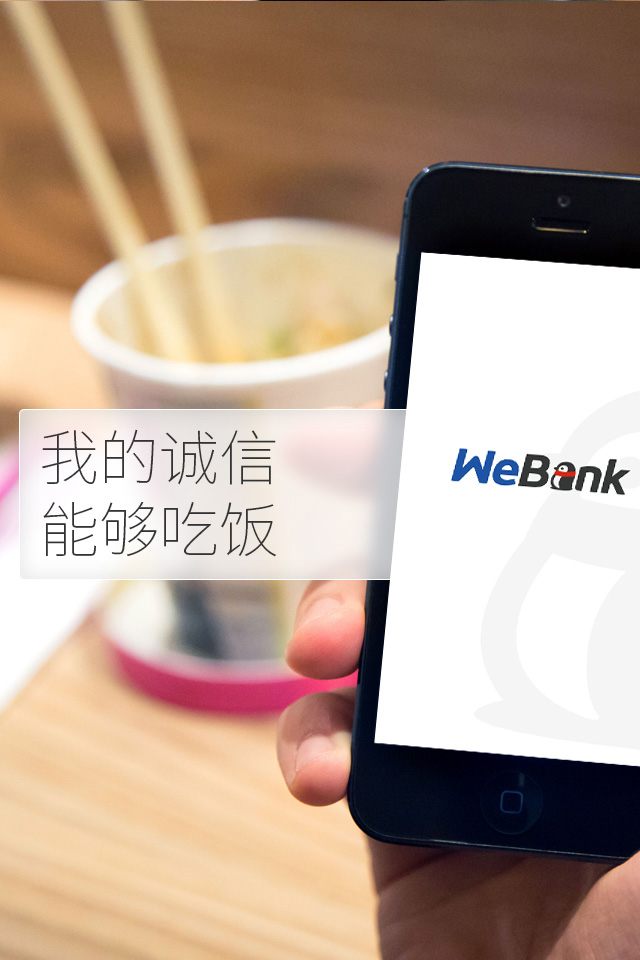
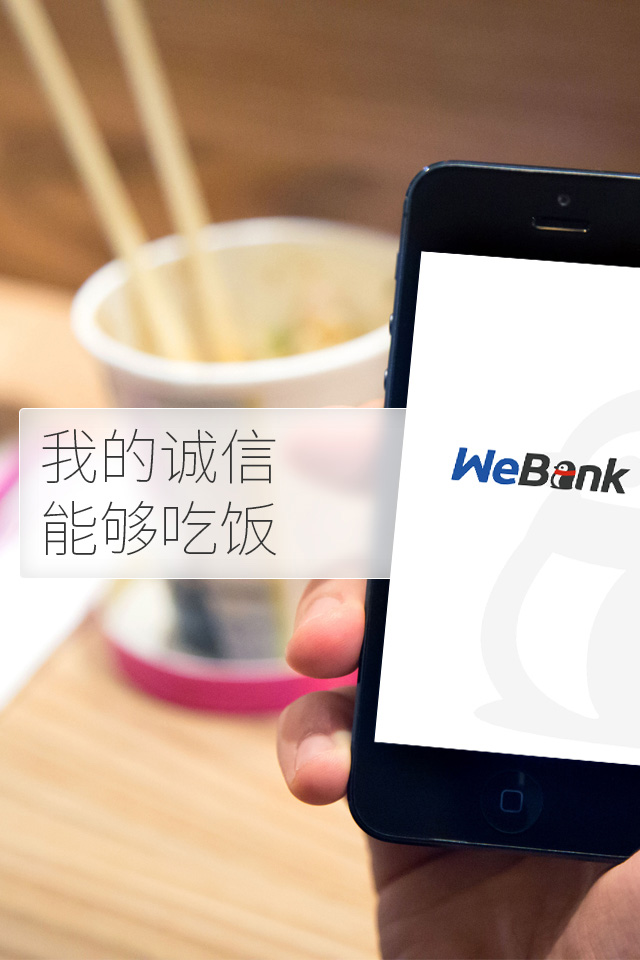
[!]

diff --git a/demo/webank/css/style.css b/demo/webank/css/style.css
@@ -108,19 +108,20 @@ body{ background:#1f54a4;}
 .con_wrap_7{ background:#1f54a4 url(../data/con_bg_7.jpg) no-repeat center center; background-size: contain;}
 .con_wrap_8{ background:#1f54a4 url(../data/con_bg_8.jpg) no-repeat center bottom; background-size: contain;}
 
-.index_2 .con_wrap_1{ background:#1f54a4 url(../data/con_bg_2_1.jpg) no-repeat center center; background-size: contain;}
-.index_2 .con_wrap_2{ background:#1f54a4 url(../data/con_bg_2_2.jpg) no-repeat center center; background-size: contain;}
-.index_2 .con_wrap_3{ background:#1f54a4 url(../data/con_bg_2_3.jpg) no-repeat center center; background-size: contain;}
-.index_2 .con_wrap_4{ background:#1f54a4 url(../data/con_bg_2_4.jpg) no-repeat center center; background-size: contain;}
+.index_2 .con_wrap_1{ background:#1f54a4 url(../data/con_bg_2_1.jpg) no-repeat center center; background-size: 100% 100%;}
+.index_2 .con_wrap_2{ background:#1f54a4 url(../data/con_bg_2_2.jpg) no-repeat center center; background-size: 100% 100%;}
+.index_2 .con_wrap_3{ background:#1f54a4 url(../data/con_bg_2_3.jpg) no-repeat center center; background-size: 100% 100%;}
+.index_2 .con_wrap_4{ background:#1f54a4 url(../data/con_bg_2_4.jpg) no-repeat center center; background-size: 100% 100%;}
 
-.index_3 .con_wrap_1{ background:#1f54a4 url(../data/con_bg_3_1.jpg) no-repeat center center; background-size: contain;}
-.index_3 .con_wrap_2{ background:#1f54a4 url(../data/con_bg_3_2.jpg) no-repeat center center; background-size: contain;}
-.index_3 .con_wrap_3{ background:#1f54a4 url(../data/con_bg_3_3.jpg) no-repeat center center; background-size: contain;}
-.index_3 .con_wrap_4{ background:#1f54a4 url(../data/con_bg_3_4.jpg) no-repeat center center; background-size: contain;}
-.index_3 .con_wrap_5{ background:#1f54a4 url(../data/con_bg_3_5.jpg) no-repeat center center; background-size: contain;}
-.index_3 .con_wrap_6{ background:#1f54a4 url(../data/con_bg_3_6.jpg) no-repeat center center; background-size: contain;}
-.index_3 .con_wrap_7{ background:#1f54a4 url(../data/con_bg_3_7.jpg) no-repeat center center; background-size: contain;}
-.index_3 .con_wrap_8{ background:#1f54a4 url(../data/con_bg_3_8.jpg) no-repeat center bottom; background-size: contain;}
+.index_3{ background:#fff;}
+.index_3 .con_wrap_1{ background:#fff url(../data/con_bg_3_1.jpg) no-repeat center center; background-size:100% 100%;}
+.index_3 .con_wrap_2{ background:#fff url(../data/con_bg_3_2.jpg) no-repeat center center; background-size:100% 100%;}
+.index_3 .con_wrap_3{ background:#fff url(../data/con_bg_3_3.jpg) no-repeat center center; background-size:100% 100%;}
+.index_3 .con_wrap_4{ background:#fff url(../data/con_bg_3_4.jpg) no-repeat center center; background-size:100% 100%;}
+.index_3 .con_wrap_5{ background:#fff url(../data/con_bg_3_5.jpg) no-repeat center center; background-size:100% 100%;}
+.index_3 .con_wrap_6{ background:#fff url(../data/con_bg_3_6.jpg) no-repeat center center; background-size:100% 100%;}
+.index_3 .con_wrap_7{ background:#fff url(../data/con_bg_3_7.jpg) no-repeat center center; background-size:100% 100%;}
+.index_3 .con_wrap_8{ background:#fff url(../data/con_bg_3_8.jpg) no-repeat center bottom; background-size:100% 100%;}
 
 /**/
 
